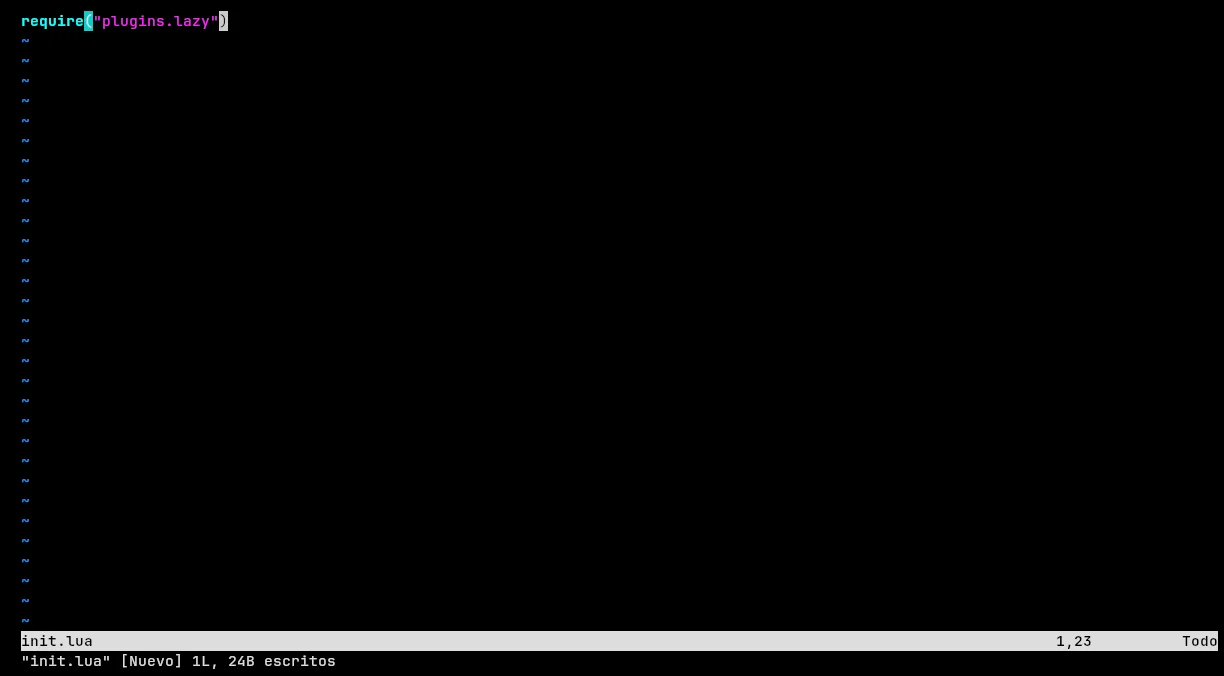
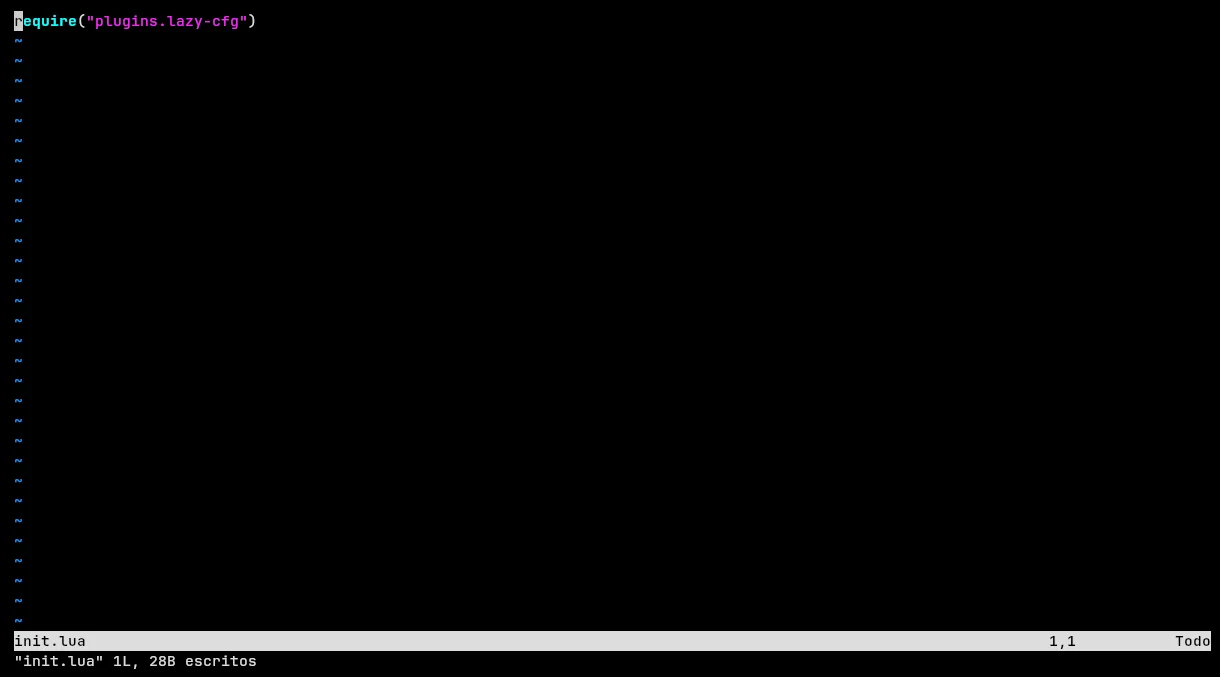
Añadidos los pasos para instalar y activar plugins

diff --git a/src/pages/plugins.md b/src/pages/plugins.md
@@ -14,7 +14,7 @@ Para este sitio vamos a utilizar este último, ya que nos permite cargar plugins
 
 ## Instalación de Lazy
 
-Para ellos nos vamos al directorio `$HOME/.config/nvim/lua/plugins` (no es obligatorio, pero es mejor así para poder organizar la configuración) y creamos el archivo **lazy.lua**. 
+Para ellos nos vamos al directorio `$HOME/.config/nvim/lua/plugins` (no es obligatorio, pero es mejor así para poder organizar la configuración) y creamos el archivo **lazy-cfg.lua**. 
 
 Dentro del archivo pegamos esto:
 
@@ -37,7 +37,7 @@ require("lazy").setup({})
 ```
 
 Guardamos el archivo y luego abrimos el archivo **init.lua** del directorio "nvim".
-Vamos, el que tenemos la configuración. Añadimos `require("plugins.lazy")` y
+Vamos, el que tenemos la configuración. Añadimos `require("plugins.lazy-cfg")` y
 guardamos.
 
 <img src="/guia-neovim/images/carga-lazy-init-lua.webp" alt="Carga de Lazy en el
@@ -96,8 +96,8 @@ Dentro del archivo `plugins.lua` escribimos esto:
 
 ``` lua 
 return {
-  -- lualine
-  {"nvim-lualine/lualine.nvim", dependencies = {"nvim-tree/nvim-web-icons"}}
+  -- Lualine
+  {"nvim-lualine/lualine.nvim", dependencies = {"nvim-tree/nvim-web-icons"}},
 }
 ```
 
@@ -107,20 +107,60 @@ Vamos a desmenuzar el ejemplo anterior:
 + Lo que hay entre corchetes es el nombre del repositorio del plugin (formado por el nombre del autor y el repositorio).
 + Lo de `dependencies` es opcional, ya que le estamos indicando que instale además la dependencia de ese plugin.
 
-¿Te acuerdas del archivo **lazy.lua** del directorio superior? Pues toca modificarlo para que instale los plugins. Dentro de la misma hay que cambiar las siguientes cosas:
+¿Te acuerdas del archivo **lazy-cfg.lua**? Pues toca modificarlo para que instale los plugins. Dentro de la misma hay que cambiar las siguientes cosas:
 
 ``` lua
--- Asignamos la variable plugins para que reciba el listado de plugins
-local plugins = require("plugins.plugins")
-
 -- Carga Lazy con la lista de plugins
-require("lazy").setup(plugins)
+require("lazy").setup({
+    spec = {
+        {import = "plugins.plugins"},
+    }
+})
 ```
 
-Guardamos los cambios. Salimos de Neovim y cuando volvamos a arrancarlo, detectará los nuevos plugins para luego instalarlos.
+Guardamos los cambios. Salimos de Neovim y cuando volvamos a arrancarlo, detectará los nuevos plugins y los instalará.
+
+
+<img src="/guia-neovim/images/instalacion-plugins.webp" alt="Instalando nuevos plugins con Lazy" />
+
+Pero... **¡¡OJO!!** Que se instalen los plugins no significa que estén activados por
+defecto. Para eso vamos a crear un nuevo archivo llamado `lualine-cfg.lua` dentro de este
+directorio. A continuación lo abrimos y escribimos esto:
+
+``` lua
+-- Activamos el Lualine
+require("lualine").setup()
+```
+
+<img src="/guia-neovim/images/activando-lualine.webp" alt="Activando Lualine 1" />
+
+Ahora tenemos que llamarlo desde el archivo **init.lua** del directorio raíz de la
+configuración (sí, ese que está en `$HOME/.config/nvim`). Dentro metemos esto:
+
+```
+require("plugins.lualine-cfg")
+```
+
+<img src="/guia-neovim/images/activando-lualine2.webp" alt="Activando Lualine 2" />
+
+Salimos de Neovim, volvemos a ejecutarlo y ...
+
+<figure>
+    <img src="/guia-neovim/images/lualine-activado.webp" alt="Lualine activado" />
+    <figcaption>
+        <b>Voilá!!</b> Ya tenemos activado el <b>Lualine</b>.
+    </figcaption>
+</figure>
 
 
 ## Consideraciones especiales
-+ Encontrar el plugin que más se ajuste a nuestras necesidades es una tarea que puede llevarnos horas. Por eso hay que escoger tal plugin para X propósito.
 
++ Encontrar el plugin que más se ajuste a nuestras necesidades es una tarea que puede llevarnos horas. Por eso hay que escoger tal plugin para X propósito.
 + También hay que recordar que instalar demasiados plugins puede **afectar al tiempo de inicio** de Neovim y también puede perjudicar el funcionamiento del editor. En **Lazy** podemos configurar X plugin para que cargue después o cuando se haya abierto un archivo.
++ A la hora de crear un archivo de configuración para un plugin en especifico, no hay
+  que poner el nombre del plugin porque luego a la hora de cargarlo, Lua se quejará
+porque ya no sabe si está llamando al módulo o al archivo de configuración. Por lo
+tanto es aconsejable añadir el `-cfg` en el nombre del archivo para que "no se haga
+la picha un lío".
++ Hay algunos plugins que cuando se activan, cargan su configuración por defecto. En
+  otros hay que añadirle la configuración dentro de la función `setup()`.
